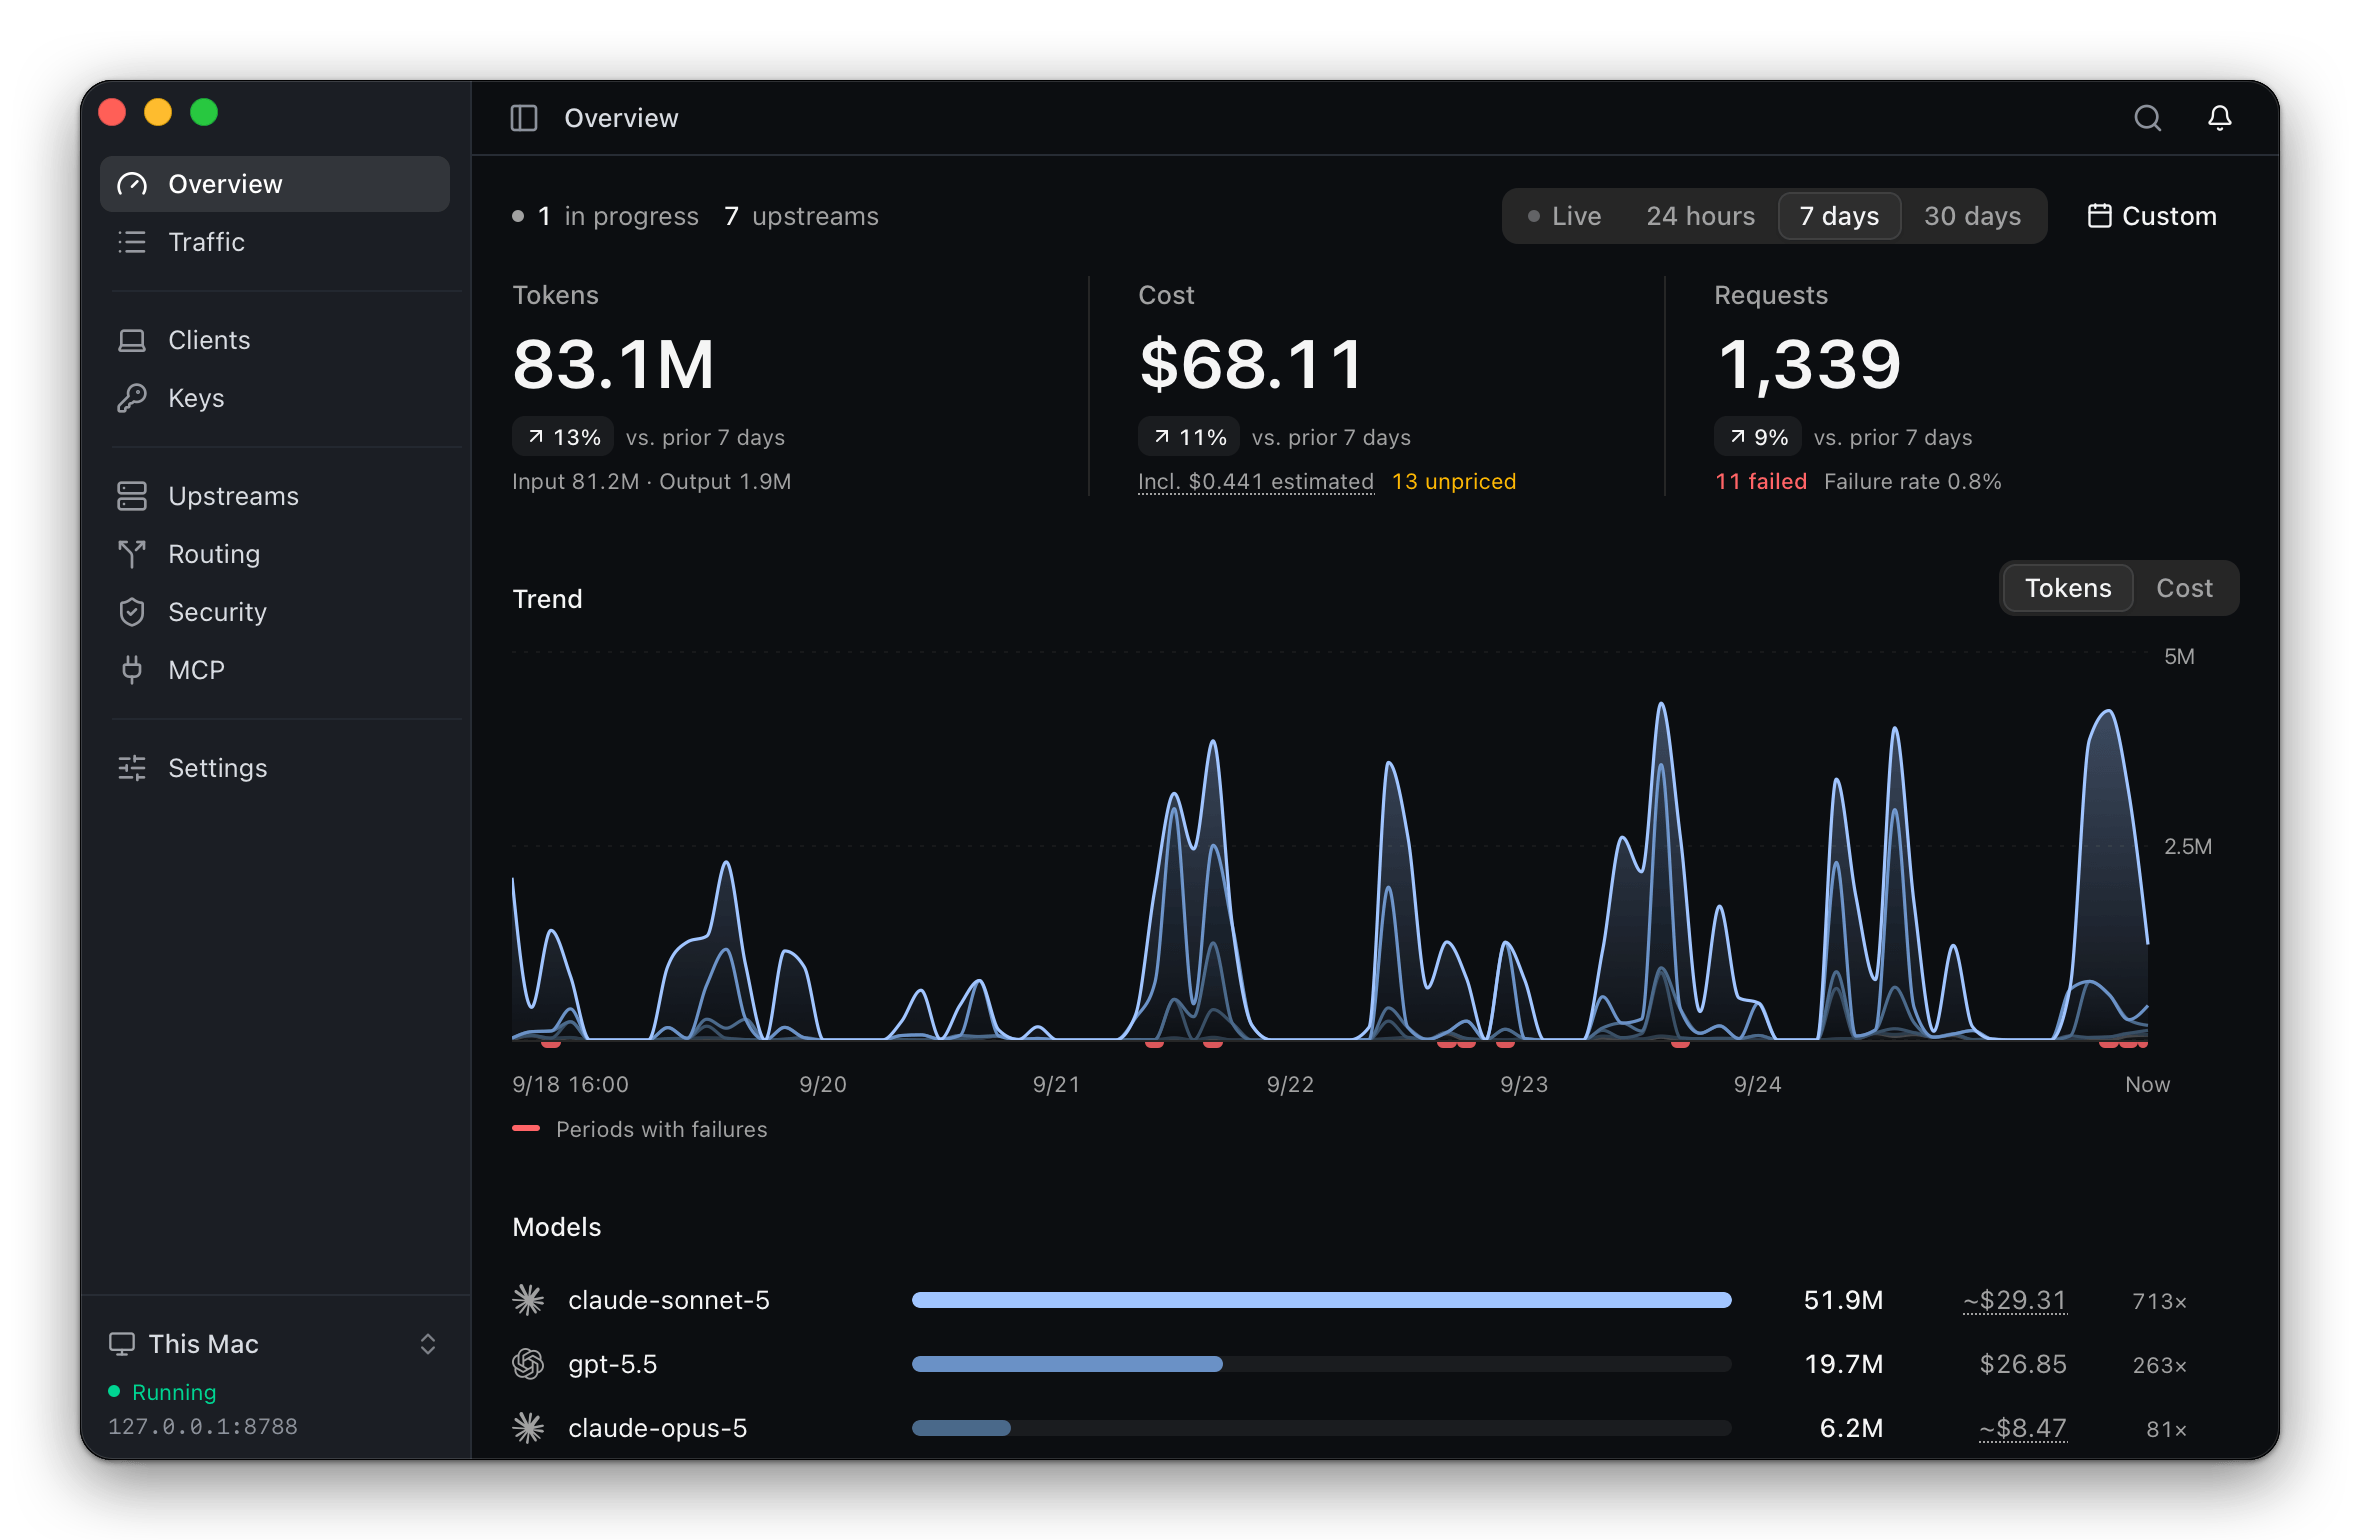
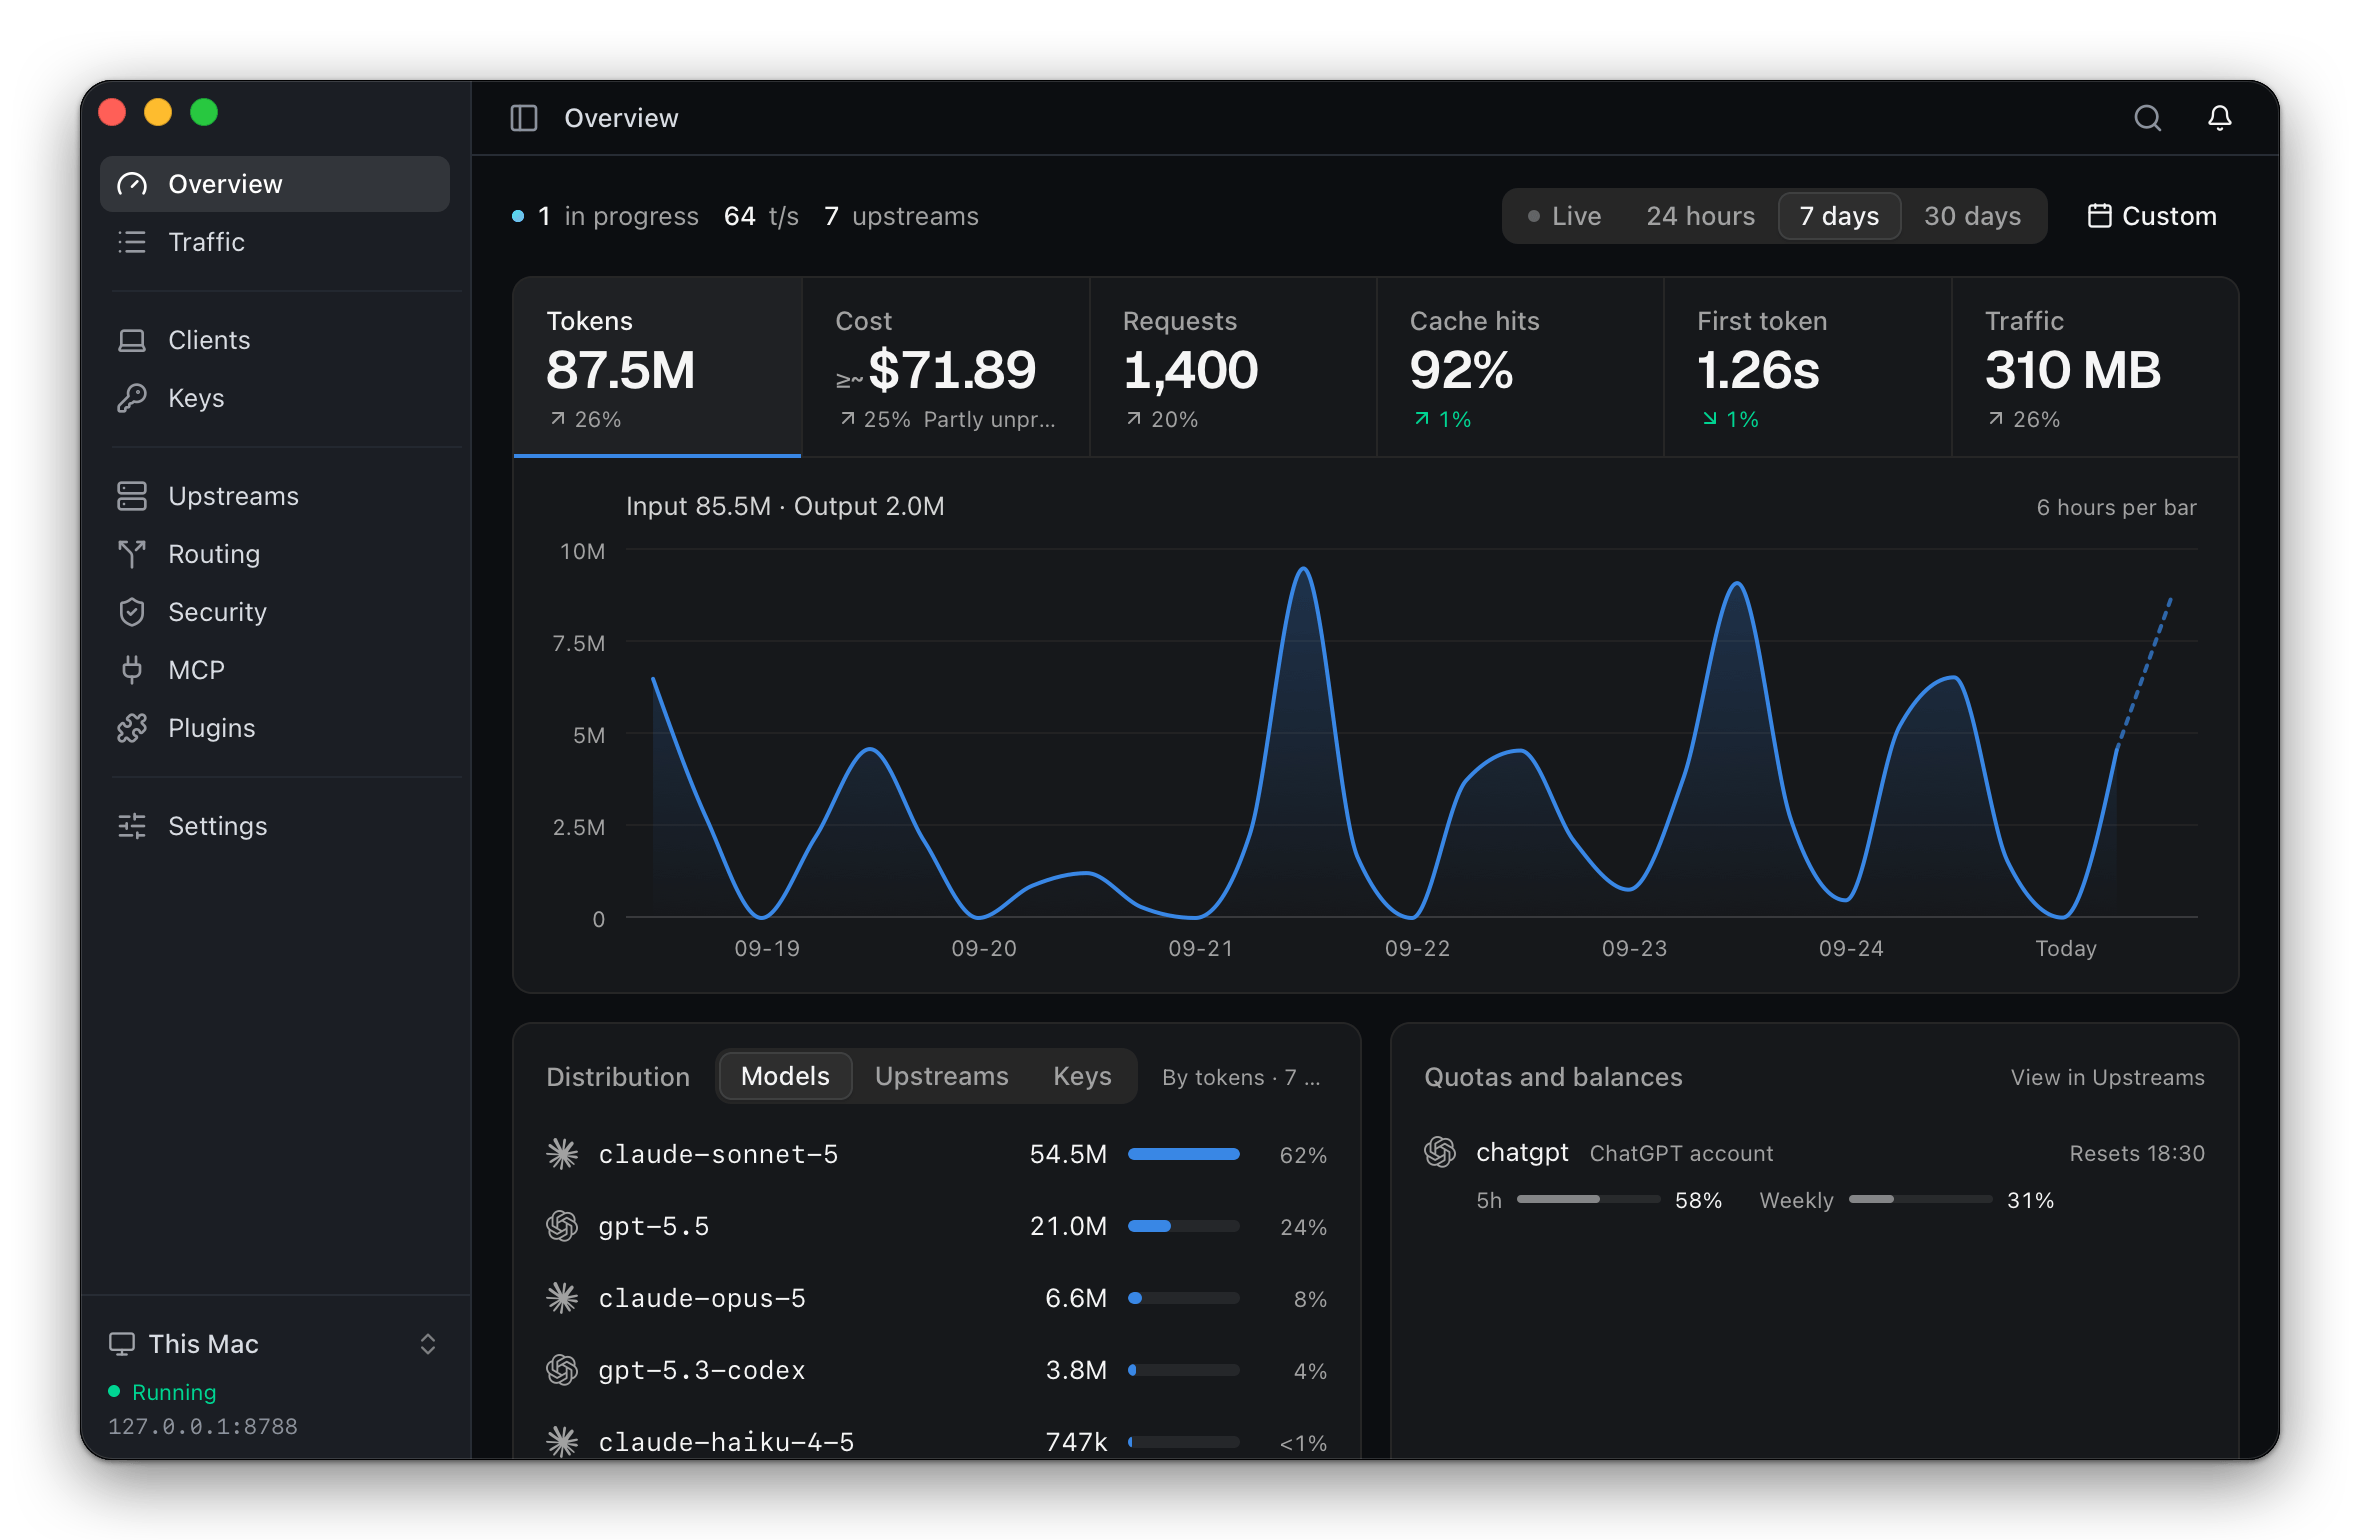
docs(profile): current Lite overview screenshot (#15)

diff --git a/profile/README.md b/profile/README.md
@@ -47,7 +47,7 @@ brew install --cask thinkwatchproject/tap/thinkwatch-lite
 
 <picture>
   <source media="(prefers-color-scheme: dark)" srcset="/assets/lite-overview-dark.png">
-  <img src="/assets/lite-overview-light.png" alt="The ThinkWatch Lite overview page: tokens, cost and requests for the last seven days compared with the seven days before, a trend chart by model with periods of failures marked, and usage by model">
+  <img src="/assets/lite-overview-light.png" alt="The ThinkWatch Lite overview page: tokens, cost, requests, cache hits, first token and traffic for the last seven days compared with the seven days before, a chart of the selected metric, where the tokens went by model, and the quotas and balances the upstreams report">
 </picture>
 
 ## ThinkWatch Enterprise
